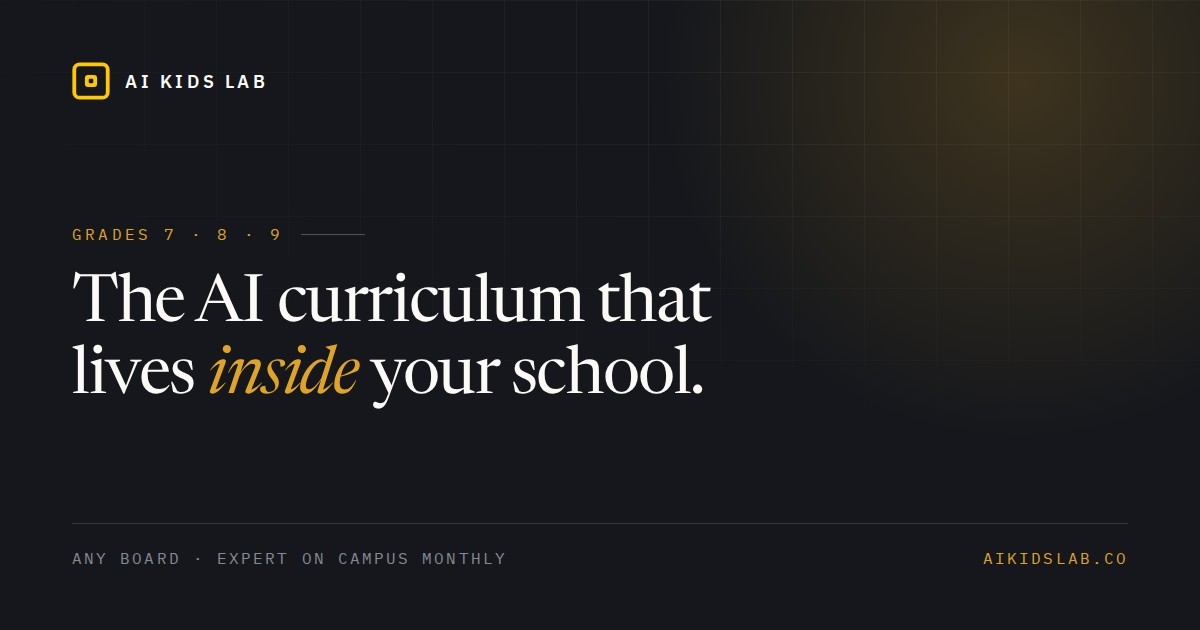
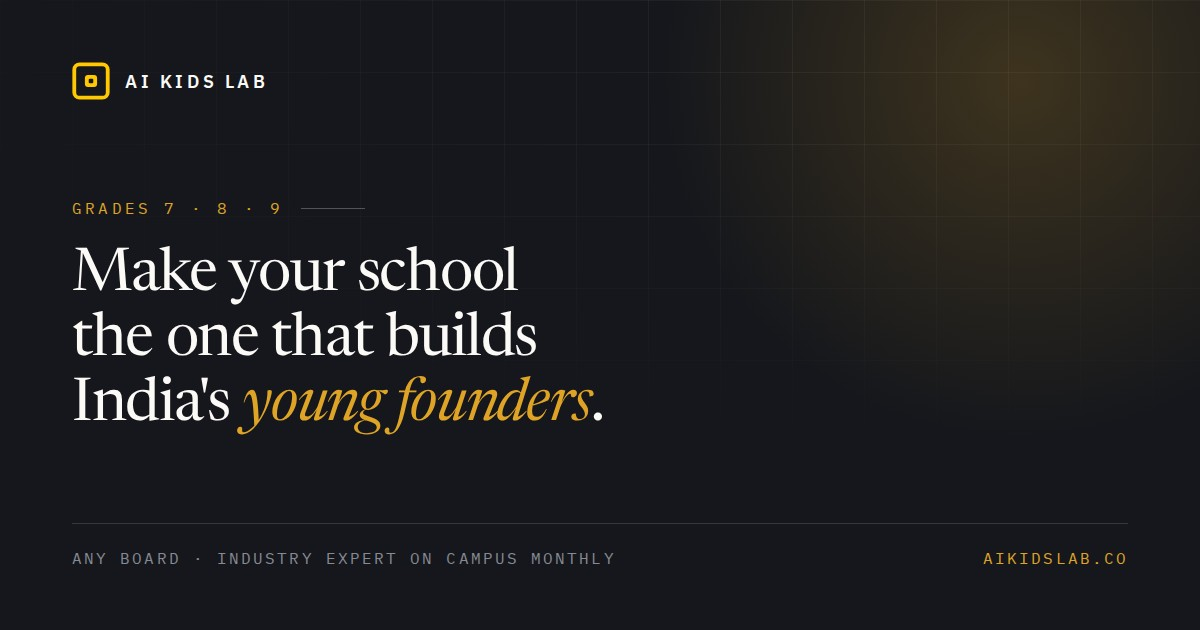
Write the social preview copy for the share, not for the search result
<title> and og:title were the same string doing two different jobs: a
Google result, where keywords matter, and a WhatsApp card read in two
seconds by a school founder. They are now separate. <title> and the
meta description stay tuned for search; og and twitter carry copy
written for the card.

The homepage share now leads with the line the site leads with —
"Make your school the one that builds India's young founders" — on the
card image and as the title, with the mechanism underneath: one period
a week, an engineer on campus monthly, a capstone every child builds.

Every other page gets a sharpened line: "Why we stopped teaching
fifteen children at a time", "A 14-year-old built heart screening that
runs in 7 seconds", "Four of your five options are cheaper. Here's the
difference", "No, your 400 students do not need ChatGPT accounts",
"Ask the student one question: how does it decide?"

WhatsApp clips a description near 80 characters on a phone, so each
one is front-loaded to land the point before the cut rather than
opening with throat-clearing.

Verified by parsing the tags in a browser across all fifteen pages:
og and twitter agree, every title is 65 characters or fewer, every
description 160 or fewer, and every referenced image exists.

Claude-Session: https://claude.ai/code/session_01Sr8FoFuQYnMrRdnNQMjRzN

Changed region(s): [[0.0617, 0.3016, 0.5858, 0.6937], [0.185, 0.8746, 0.5242, 0.9048]]

diff --git a/index.html b/index.html
@@ -14,19 +14,19 @@
 <meta property="og:site_name" content="AI Kids Lab">
 <meta property="og:locale" content="en_IN">
 <meta property="og:url" content="https://www.aikidslab.co/">
-<meta property="og:title" content="AI Kids Lab — AI Curriculum for Grades 7, 8 &amp; 9">
-<meta property="og:description" content="A grade-wise AI curriculum inside your school&#x27;s existing timetable. Self-paced modules, an industry expert on campus monthly, a capstone per grade.">
+<meta property="og:title" content="Make your school the one that builds India&#x27;s young founders">
+<meta property="og:description" content="One period a week, an industry engineer on your campus every month, and a capstone every child builds and presents. Any board.">
 <meta property="og:image" content="https://www.aikidslab.co/og-image.jpg">
 <meta property="og:image:secure_url" content="https://www.aikidslab.co/og-image.jpg">
 <meta property="og:image:type" content="image/jpeg">
 <meta property="og:image:width" content="1200">
 <meta property="og:image:height" content="630">
-<meta property="og:image:alt" content="AI Kids Lab — the AI curriculum that lives inside your school. Grades 7, 8 and 9, any board, with an industry expert on campus every month.">
+<meta property="og:image:alt" content="Make your school the one that builds India&#x27;s young founders — AI Kids Lab, a grade-wise AI curriculum for Grades 7, 8 and 9, any board, with an industry expert on campus every month.">
 <meta name="twitter:card" content="summary_large_image">
-<meta name="twitter:title" content="AI Kids Lab — AI Curriculum for Grades 7, 8 &amp; 9">
-<meta name="twitter:description" content="A grade-wise AI curriculum inside your school&#x27;s existing timetable. Self-paced modules, an industry expert on campus monthly, a capstone per grade.">
+<meta name="twitter:title" content="Make your school the one that builds India&#x27;s young founders">
+<meta name="twitter:description" content="One period a week, an industry engineer on your campus every month, and a capstone every child builds and presents. Any board.">
 <meta name="twitter:image" content="https://www.aikidslab.co/og-image.jpg">
-<meta name="twitter:image:alt" content="AI Kids Lab — the AI curriculum that lives inside your school. Grades 7, 8 and 9, any board, with an industry expert on campus every month.">
+<meta name="twitter:image:alt" content="Make your school the one that builds India&#x27;s young founders — AI Kids Lab, a grade-wise AI curriculum for Grades 7, 8 and 9, any board, with an industry expert on campus every month.">
 <link rel="preconnect" href="https://fonts.googleapis.com">
 <link rel="preconnect" href="https://fonts.gstatic.com" crossorigin>
 <link href="https://fonts.googleapis.com/css2?family=Newsreader:ital,opsz,wght@0,6..72,400;0,6..72,500;0,6..72,600;1,6..72,400&family=IBM+Plex+Sans:wght@400;500;600&family=IBM+Plex+Mono:wght@400;500&display=swap" rel="stylesheet">

diff --git a/how-we-are-different.html b/how-we-are-different.html
@@ -14,8 +14,8 @@
 <meta property="og:site_name" content="AI Kids Lab">
 <meta property="og:locale" content="en_IN">
 <meta property="og:url" content="https://www.aikidslab.co/how-we-are-different.html">
-<meta property="og:title" content="How We&#x27;re Different — A School Leader&#x27;s Comparison">
-<meta property="og:description" content="The five delivery models a school chooses between for AI in Grades 7–9, compared honestly — including when a cheaper option is the better call.">
+<meta property="og:title" content="Four of your five options are cheaper. Here&#x27;s the difference">
+<meta property="og:description" content="An honest comparison of every way a school can deliver AI in Grades 7–9, including when we tell schools to take the cheaper one.">
 <meta property="og:image" content="https://www.aikidslab.co/og-different.jpg">
 <meta property="og:image:secure_url" content="https://www.aikidslab.co/og-different.jpg">
 <meta property="og:image:type" content="image/jpeg">
@@ -23,8 +23,8 @@
 <meta property="og:image:height" content="630">
 <meta property="og:image:alt" content="How AI Kids Lab is different — you have five realistic options, and four of them are cheaper than us.">
 <meta name="twitter:card" content="summary_large_image">
-<meta name="twitter:title" content="How We&#x27;re Different — A School Leader&#x27;s Comparison">
-<meta name="twitter:description" content="The five delivery models a school chooses between for AI in Grades 7–9, compared honestly — including when a cheaper option is the better call.">
+<meta name="twitter:title" content="Four of your five options are cheaper. Here&#x27;s the difference">
+<meta name="twitter:description" content="An honest comparison of every way a school can deliver AI in Grades 7–9, including when we tell schools to take the cheaper one.">
 <meta name="twitter:image" content="https://www.aikidslab.co/og-different.jpg">
 <meta name="twitter:image:alt" content="How AI Kids Lab is different — you have five realistic options, and four of them are cheaper than us.">
 <link rel="preconnect" href="https://fonts.googleapis.com">

diff --git a/student-ai-competitions-india.html b/student-ai-competitions-india.html
@@ -14,8 +14,8 @@
 <meta property="og:site_name" content="AI Kids Lab">
 <meta property="og:locale" content="en_IN">
 <meta property="og:url" content="https://www.aikidslab.co/student-ai-competitions-india.html">
-<meta property="og:title" content="The competition pathway for school AI students in India">
-<meta property="og:description" content="INAIO, Technovation Girls, Imagine Cup Junior and the ATL Marathon — what each rewards, which students to enter, and what judges actually look for.">
+<meta property="og:title" content="Where a school AI project goes after the school gate">
+<meta property="og:description" content="INAIO, Technovation Girls, Imagine Cup Junior, the ATL Marathon — what each rewards, and which students to enter.">
 <meta property="og:image" content="https://www.aikidslab.co/og-post-competitions.jpg">
 <meta property="og:image:secure_url" content="https://www.aikidslab.co/og-post-competitions.jpg">
 <meta property="og:image:type" content="image/jpeg">
@@ -23,8 +23,8 @@
 <meta property="og:image:height" content="630">
 <meta property="og:image:alt" content="The competition pathway for school AI students in India — INAIO, Technovation, Imagine Cup Junior.">
 <meta name="twitter:card" content="summary_large_image">
-<meta name="twitter:title" content="The competition pathway for school AI students in India">
-<meta name="twitter:description" content="INAIO, Technovation Girls, Imagine Cup Junior and the ATL Marathon — what each rewards, which students to enter, and what judges actually look for.">
+<meta name="twitter:title" content="Where a school AI project goes after the school gate">
+<meta name="twitter:description" content="INAIO, Technovation Girls, Imagine Cup Junior, the ATL Marathon — what each rewards, and which students to enter.">
 <meta name="twitter:image" content="https://www.aikidslab.co/og-post-competitions.jpg">
 <meta name="twitter:image:alt" content="The competition pathway for school AI students in India — INAIO, Technovation, Imagine Cup Junior.">
 <link rel="preconnect" href="https://fonts.googleapis.com">

diff --git a/ai-in-school-without-student-accounts.html b/ai-in-school-without-student-accounts.html
@@ -14,8 +14,8 @@
 <meta property="og:site_name" content="AI Kids Lab">
 <meta property="og:locale" content="en_IN">
 <meta property="og:url" content="https://www.aikidslab.co/ai-in-school-without-student-accounts.html">
-<meta property="og:title" content="Running AI in school without a single student account">
-<meta property="og:description" content="How a school delivers AI to four hundred students without handing any of them a consumer AI account — and what still needs a written policy.">
+<meta property="og:title" content="No, your 400 students do not need ChatGPT accounts">
+<meta property="og:description" content="How a school delivers AI without handing any child a consumer account — and the three things that still need a written policy.">
 <meta property="og:image" content="https://www.aikidslab.co/og-post-accounts.jpg">
 <meta property="og:image:secure_url" content="https://www.aikidslab.co/og-post-accounts.jpg">
 <meta property="og:image:type" content="image/jpeg">
@@ -23,8 +23,8 @@
 <meta property="og:image:height" content="630">
 <meta property="og:image:alt" content="Running AI in school without a single student account — managed gateway and DPDP Act 2023.">
 <meta name="twitter:card" content="summary_large_image">
-<meta name="twitter:title" content="Running AI in school without a single student account">
-<meta name="twitter:description" content="How a school delivers AI to four hundred students without handing any of them a consumer AI account — and what still needs a written policy.">
+<meta name="twitter:title" content="No, your 400 students do not need ChatGPT accounts">
+<meta name="twitter:description" content="How a school delivers AI without handing any child a consumer account — and the three things that still need a written policy.">
 <meta name="twitter:image" content="https://www.aikidslab.co/og-post-accounts.jpg">
 <meta name="twitter:image:alt" content="Running AI in school without a single student account — managed gateway and DPDP Act 2023.">
 <link rel="preconnect" href="https://fonts.googleapis.com">

diff --git a/ai-kids-lab-vs-coding-ninjas-junior.html b/ai-kids-lab-vs-coding-ninjas-junior.html
@@ -14,8 +14,8 @@
 <meta property="og:site_name" content="AI Kids Lab">
 <meta property="og:locale" content="en_IN">
 <meta property="og:url" content="https://www.aikidslab.co/ai-kids-lab-vs-coding-ninjas-junior.html">
-<meta property="og:title" content="AI Kids Lab vs Coding Ninjas Junior — For Schools">
-<meta property="og:description" content="Coding foundations, or an AI curriculum for the whole grade? A comparison for school leaders choosing what goes on the timetable.">
+<meta property="og:title" content="Coding foundations are not an AI curriculum">
+<meta property="og:description" content="Both are worth having. What changes when the school, not the parent, is the buyer — and what our students write Python for.">
 <meta property="og:image" content="https://www.aikidslab.co/og-vs-coding-ninjas.jpg">
 <meta property="og:image:secure_url" content="https://www.aikidslab.co/og-vs-coding-ninjas.jpg">
 <meta property="og:image:type" content="image/jpeg">
@@ -23,8 +23,8 @@
 <meta property="og:image:height" content="630">
 <meta property="og:image:alt" content="AI Kids Lab vs Coding Ninjas Junior — coding foundations or an AI curriculum for the whole grade.">
 <meta name="twitter:card" content="summary_large_image">
-<meta name="twitter:title" content="AI Kids Lab vs Coding Ninjas Junior — For Schools">
-<meta name="twitter:description" content="Coding foundations, or an AI curriculum for the whole grade? A comparison for school leaders choosing what goes on the timetable.">
+<meta name="twitter:title" content="Coding foundations are not an AI curriculum">
+<meta name="twitter:description" content="Both are worth having. What changes when the school, not the parent, is the buyer — and what our students write Python for.">
 <meta name="twitter:image" content="https://www.aikidslab.co/og-vs-coding-ninjas.jpg">
 <meta name="twitter:image:alt" content="AI Kids Lab vs Coding Ninjas Junior — coding foundations or an AI curriculum for the whole grade.">
 <link rel="preconnect" href="https://fonts.googleapis.com">

diff --git a/running-a-school-buildathon.html b/running-a-school-buildathon.html
@@ -14,8 +14,8 @@
 <meta property="og:site_name" content="AI Kids Lab">
 <meta property="og:locale" content="en_IN">
 <meta property="og:url" content="https://www.aikidslab.co/running-a-school-buildathon.html">
-<meta property="og:title" content="Running a school Build-a-thon: a coordinator&#x27;s checklist">
-<meta property="og:description" content="One day, every grade building, industry judges and an awards ceremony parents attend. What to plan, in what order, and the rubric that keeps it honest.">
+<meta property="og:title" content="The most valuable thirty minutes of your Build-a-thon">
+<meta property="og:description" content="A full run sheet, the judging rubric that rewards honesty about failure, and what to keep so the day leaves a trace.">
 <meta property="og:image" content="https://www.aikidslab.co/og-post-buildathon.jpg">
 <meta property="og:image:secure_url" content="https://www.aikidslab.co/og-post-buildathon.jpg">
 <meta property="og:image:type" content="image/jpeg">
@@ -23,8 +23,8 @@
 <meta property="og:image:height" content="630">
 <meta property="og:image:alt" content="Running a school Build-a-thon — run sheet, judging rubric and awards.">
 <meta name="twitter:card" content="summary_large_image">
-<meta name="twitter:title" content="Running a school Build-a-thon: a coordinator&#x27;s checklist">
-<meta name="twitter:description" content="One day, every grade building, industry judges and an awards ceremony parents attend. What to plan, in what order, and the rubric that keeps it honest.">
+<meta name="twitter:title" content="The most valuable thirty minutes of your Build-a-thon">
+<meta name="twitter:description" content="A full run sheet, the judging rubric that rewards honesty about failure, and what to keep so the day leaves a trace.">
 <meta name="twitter:image" content="https://www.aikidslab.co/og-post-buildathon.jpg">
 <meta name="twitter:image:alt" content="Running a school Build-a-thon — run sheet, judging rubric and awards.">
 <link rel="preconnect" href="https://fonts.googleapis.com">

diff --git a/school-ai-curriculum-board-requirements.html b/school-ai-curriculum-board-requirements.html
@@ -14,8 +14,8 @@
 <meta property="og:site_name" content="AI Kids Lab">
 <meta property="og:locale" content="en_IN">
 <meta property="og:url" content="https://www.aikidslab.co/school-ai-curriculum-board-requirements.html">
-<meta property="og:title" content="What Your Board&#x27;s AI Curriculum Asks of You">
-<meta property="og:description" content="Every board has added AI to the syllabus. The line is the easy part — here is what delivering it takes, plus a twenty-minute audit of your school.">
+<meta property="og:title" content="Your syllabus says AI. That&#x27;s the easy part.">
+<meta property="og:description" content="What delivering it actually takes — plus a twenty-minute audit you can run on your own Grade 8 tomorrow morning.">
 <meta property="og:image" content="https://www.aikidslab.co/og-post-boards.jpg">
 <meta property="og:image:secure_url" content="https://www.aikidslab.co/og-post-boards.jpg">
 <meta property="og:image:type" content="image/jpeg">
@@ -23,8 +23,8 @@
 <meta property="og:image:height" content="630">
 <meta property="og:image:alt" content="What your board&#x27;s AI curriculum actually asks of you — includes a twenty-minute audit.">
 <meta name="twitter:card" content="summary_large_image">
-<meta name="twitter:title" content="What Your Board&#x27;s AI Curriculum Asks of You">
-<meta name="twitter:description" content="Every board has added AI to the syllabus. The line is the easy part — here is what delivering it takes, plus a twenty-minute audit of your school.">
+<meta name="twitter:title" content="Your syllabus says AI. That&#x27;s the easy part.">
+<meta name="twitter:description" content="What delivering it actually takes — plus a twenty-minute audit you can run on your own Grade 8 tomorrow morning.">
 <meta name="twitter:image" content="https://www.aikidslab.co/og-post-boards.jpg">
 <meta name="twitter:image:alt" content="What your board&#x27;s AI curriculum actually asks of you — includes a twenty-minute audit.">
 <link rel="preconnect" href="https://fonts.googleapis.com">

diff --git a/ai-kids-lab-vs-byjus-futureschool.html b/ai-kids-lab-vs-byjus-futureschool.html
@@ -14,8 +14,8 @@
 <meta property="og:site_name" content="AI Kids Lab">
 <meta property="og:locale" content="en_IN">
 <meta property="og:url" content="https://www.aikidslab.co/ai-kids-lab-vs-byjus-futureschool.html">
-<meta property="og:title" content="AI Kids Lab vs BYJU&#x27;S FutureSchool — For Schools">
-<meta property="og:description" content="One is bought by a parent, one is licensed by a school. What differs for a leader deciding what goes on the Grades 7–9 timetable.">
+<meta property="og:title" content="An after-school subscription, or a school curriculum?">
+<meta property="og:description" content="One is bought by a parent, one is licensed by a school. What actually differs when you decide what goes on the timetable.">
 <meta property="og:image" content="https://www.aikidslab.co/og-vs-byjus.jpg">
 <meta property="og:image:secure_url" content="https://www.aikidslab.co/og-vs-byjus.jpg">
 <meta property="og:image:type" content="image/jpeg">
@@ -23,8 +23,8 @@
 <meta property="og:image:height" content="630">
 <meta property="og:image:alt" content="AI Kids Lab vs BYJU&#x27;S FutureSchool — one is bought by a parent, one is licensed by a school.">
 <meta name="twitter:card" content="summary_large_image">
-<meta name="twitter:title" content="AI Kids Lab vs BYJU&#x27;S FutureSchool — For Schools">
-<meta name="twitter:description" content="One is bought by a parent, one is licensed by a school. What differs for a leader deciding what goes on the Grades 7–9 timetable.">
+<meta name="twitter:title" content="An after-school subscription, or a school curriculum?">
+<meta name="twitter:description" content="One is bought by a parent, one is licensed by a school. What actually differs when you decide what goes on the timetable.">
 <meta name="twitter:image" content="https://www.aikidslab.co/og-vs-byjus.jpg">
 <meta name="twitter:image:alt" content="AI Kids Lab vs BYJU&#x27;S FutureSchool — one is bought by a parent, one is licensed by a school.">
 <link rel="preconnect" href="https://fonts.googleapis.com">

diff --git a/student-innovators.html b/student-innovators.html
@@ -14,8 +14,8 @@
 <meta property="og:site_name" content="AI Kids Lab">
 <meta property="og:locale" content="en_IN">
 <meta property="og:url" content="https://www.aikidslab.co/student-innovators.html">
-<meta property="og:title" content="Young Innovators — What Students This Age Build">
-<meta property="og:description" content="Six documented cases of school-age innovators, and the four things a school does to turn that kind of outcome from a lottery into a pipeline.">
+<meta property="og:title" content="A 14-year-old built heart screening that runs in 7 seconds">
+<meta property="og:description" content="Six documented cases of school-age innovators — and the four things a school does to make that ordinary instead of accidental.">
 <meta property="og:image" content="https://www.aikidslab.co/og-innovators.jpg">
 <meta property="og:image:secure_url" content="https://www.aikidslab.co/og-innovators.jpg">
 <meta property="og:image:type" content="image/jpeg">
@@ -23,8 +23,8 @@
 <meta property="og:image:height" content="630">
 <meta property="og:image:alt" content="Young innovators — these children were not exceptional, they were noticed.">
 <meta name="twitter:card" content="summary_large_image">
-<meta name="twitter:title" content="Young Innovators — What Students This Age Build">
-<meta name="twitter:description" content="Six documented cases of school-age innovators, and the four things a school does to turn that kind of outcome from a lottery into a pipeline.">
+<meta name="twitter:title" content="A 14-year-old built heart screening that runs in 7 seconds">
+<meta name="twitter:description" content="Six documented cases of school-age innovators — and the four things a school does to make that ordinary instead of accidental.">
 <meta name="twitter:image" content="https://www.aikidslab.co/og-innovators.jpg">
 <meta name="twitter:image:alt" content="Young innovators — these children were not exceptional, they were noticed.">
 <link rel="preconnect" href="https://fonts.googleapis.com">

diff --git a/engine-before-app-school-ai.html b/engine-before-app-school-ai.html
@@ -14,8 +14,8 @@
 <meta property="og:site_name" content="AI Kids Lab">
 <meta property="og:locale" content="en_IN">
 <meta property="og:url" content="https://www.aikidslab.co/engine-before-app-school-ai.html">
-<meta property="og:title" content="Engine before app: why school AI programs teach nothing">
-<meta property="og:description" content="Pick a template, connect an AI service, add buttons. It demos beautifully and teaches almost nothing. Here is the reverse order, and why it works.">
+<meta property="og:title" content="Ask the student one question: how does it decide?">
+<meta property="og:description" content="If the answer is “I connected it to the AI”, the program taught app assembly, not AI. The reverse order, and why it works.">
 <meta property="og:image" content="https://www.aikidslab.co/og-post-engine.jpg">
 <meta property="og:image:secure_url" content="https://www.aikidslab.co/og-post-engine.jpg">
 <meta property="og:image:type" content="image/jpeg">
@@ -23,8 +23,8 @@
 <meta property="og:image:height" content="630">
 <meta property="og:image:alt" content="Engine before app — why most school AI programs teach nothing.">
 <meta name="twitter:card" content="summary_large_image">
-<meta name="twitter:title" content="Engine before app: why school AI programs teach nothing">
-<meta name="twitter:description" content="Pick a template, connect an AI service, add buttons. It demos beautifully and teaches almost nothing. Here is the reverse order, and why it works.">
+<meta name="twitter:title" content="Ask the student one question: how does it decide?">
+<meta name="twitter:description" content="If the answer is “I connected it to the AI”, the program taught app assembly, not AI. The reverse order, and why it works.">
 <meta name="twitter:image" content="https://www.aikidslab.co/og-post-engine.jpg">
 <meta name="twitter:image:alt" content="Engine before app — why most school AI programs teach nothing.">
 <link rel="preconnect" href="https://fonts.googleapis.com">

diff --git a/ai-kids-lab-vs-whitehat-jr.html b/ai-kids-lab-vs-whitehat-jr.html
@@ -14,8 +14,8 @@
 <meta property="og:site_name" content="AI Kids Lab">
 <meta property="og:locale" content="en_IN">
 <meta property="og:url" content="https://www.aikidslab.co/ai-kids-lab-vs-whitehat-jr.html">
-<meta property="og:title" content="AI Kids Lab vs WhiteHat Jr — For Schools">
-<meta property="og:description" content="One is bought by a parent, one is licensed by a school. What differs for a leader deciding what goes on the Grades 7–9 timetable.">
+<meta property="og:title" content="Reaching the children who enrolled, or the whole grade?">
+<meta property="og:description" content="One is bought by a parent, one is licensed by a school. What actually differs when you decide what goes on the timetable.">
 <meta property="og:image" content="https://www.aikidslab.co/og-vs-whitehat-jr.jpg">
 <meta property="og:image:secure_url" content="https://www.aikidslab.co/og-vs-whitehat-jr.jpg">
 <meta property="og:image:type" content="image/jpeg">
@@ -23,8 +23,8 @@
 <meta property="og:image:height" content="630">
 <meta property="og:image:alt" content="AI Kids Lab vs WhiteHat Jr — one is bought by a parent, one is licensed by a school.">
 <meta name="twitter:card" content="summary_large_image">
-<meta name="twitter:title" content="AI Kids Lab vs WhiteHat Jr — For Schools">
-<meta name="twitter:description" content="One is bought by a parent, one is licensed by a school. What differs for a leader deciding what goes on the Grades 7–9 timetable.">
+<meta name="twitter:title" content="Reaching the children who enrolled, or the whole grade?">
+<meta name="twitter:description" content="One is bought by a parent, one is licensed by a school. What actually differs when you decide what goes on the timetable.">
 <meta name="twitter:image" content="https://www.aikidslab.co/og-vs-whitehat-jr.jpg">
 <meta name="twitter:image:alt" content="AI Kids Lab vs WhiteHat Jr — one is bought by a parent, one is licensed by a school.">
 <link rel="preconnect" href="https://fonts.googleapis.com">

diff --git a/ai-kids-lab-vs-online-ai-courses.html b/ai-kids-lab-vs-online-ai-courses.html
@@ -14,8 +14,8 @@
 <meta property="og:site_name" content="AI Kids Lab">
 <meta property="og:locale" content="en_IN">
 <meta property="og:url" content="https://www.aikidslab.co/ai-kids-lab-vs-online-ai-courses.html">
-<meta property="og:title" content="AI Kids Lab vs Online AI Courses — For Schools">
-<meta property="og:description" content="What self-paced video alone delivers, and what a monthly on-campus engineer, grade-wise capstones and real assessment add to it.">
+<meta property="og:title" content="Video alone does not finish the year">
+<meta property="og:description" content="What a monthly on-campus engineer, grade-wise capstones and a real rubric add to self-paced video — and when a licence is enough.">
 <meta property="og:image" content="https://www.aikidslab.co/og-vs-online-courses.jpg">
 <meta property="og:image:secure_url" content="https://www.aikidslab.co/og-vs-online-courses.jpg">
 <meta property="og:image:type" content="image/jpeg">
@@ -23,8 +23,8 @@
 <meta property="og:image:height" content="630">
 <meta property="og:image:alt" content="AI Kids Lab vs online AI courses — what self-paced video alone actually delivers.">
 <meta name="twitter:card" content="summary_large_image">
-<meta name="twitter:title" content="AI Kids Lab vs Online AI Courses — For Schools">
-<meta name="twitter:description" content="What self-paced video alone delivers, and what a monthly on-campus engineer, grade-wise capstones and real assessment add to it.">
+<meta name="twitter:title" content="Video alone does not finish the year">
+<meta name="twitter:description" content="What a monthly on-campus engineer, grade-wise capstones and a real rubric add to self-paced video — and when a licence is enough.">
 <meta name="twitter:image" content="https://www.aikidslab.co/og-vs-online-courses.jpg">
 <meta name="twitter:image:alt" content="AI Kids Lab vs online AI courses — what self-paced video alone actually delivers.">
 <link rel="preconnect" href="https://fonts.googleapis.com">
